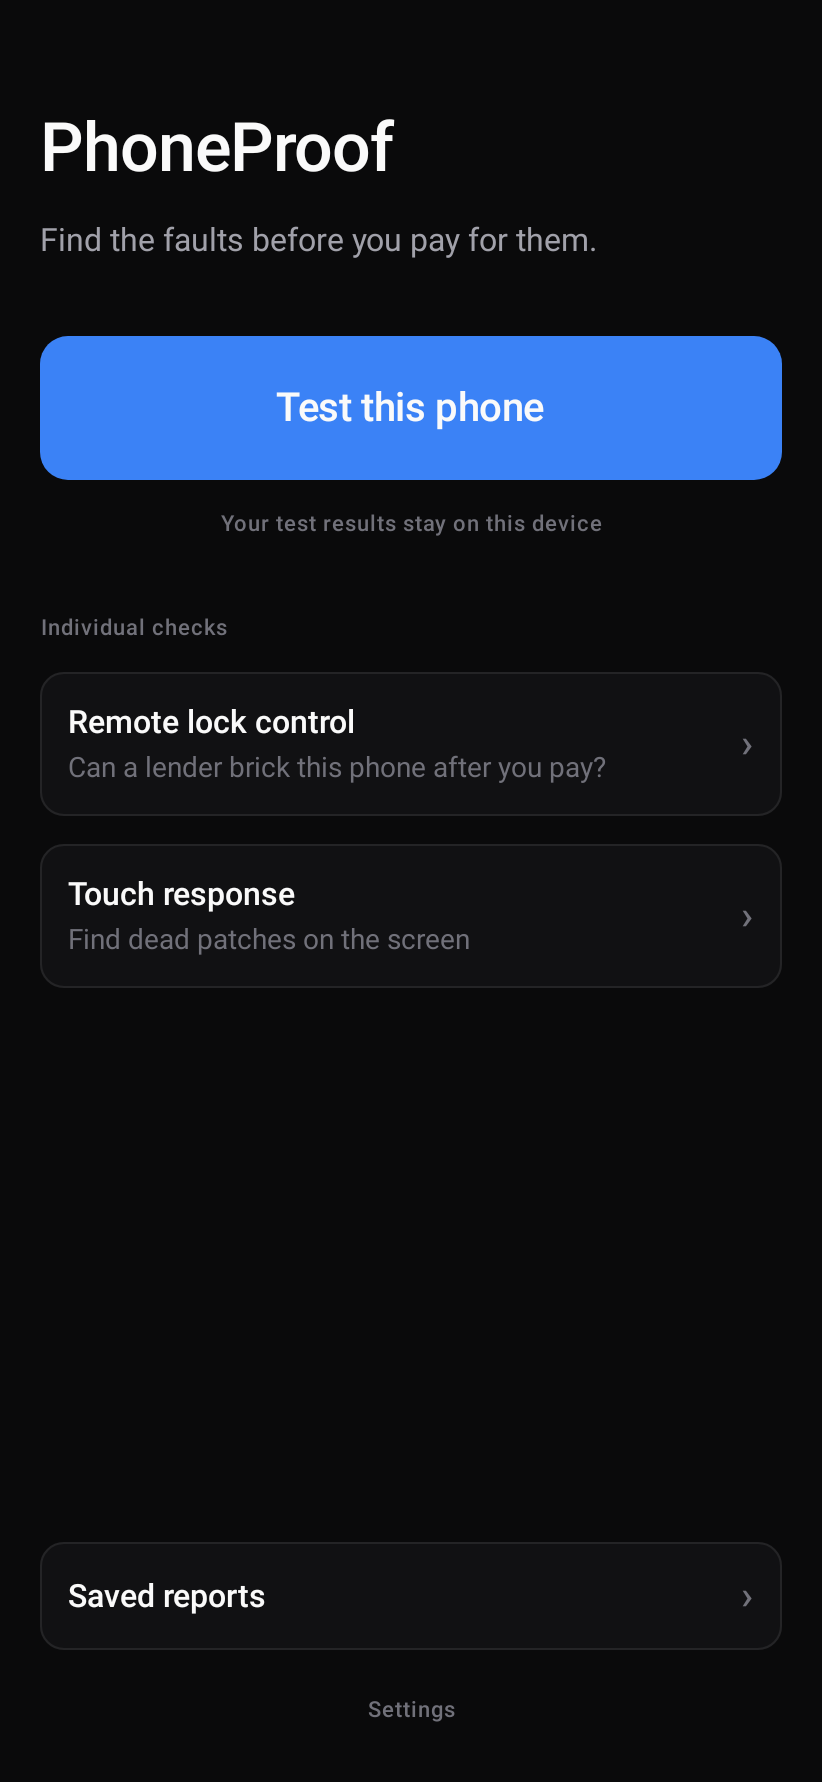
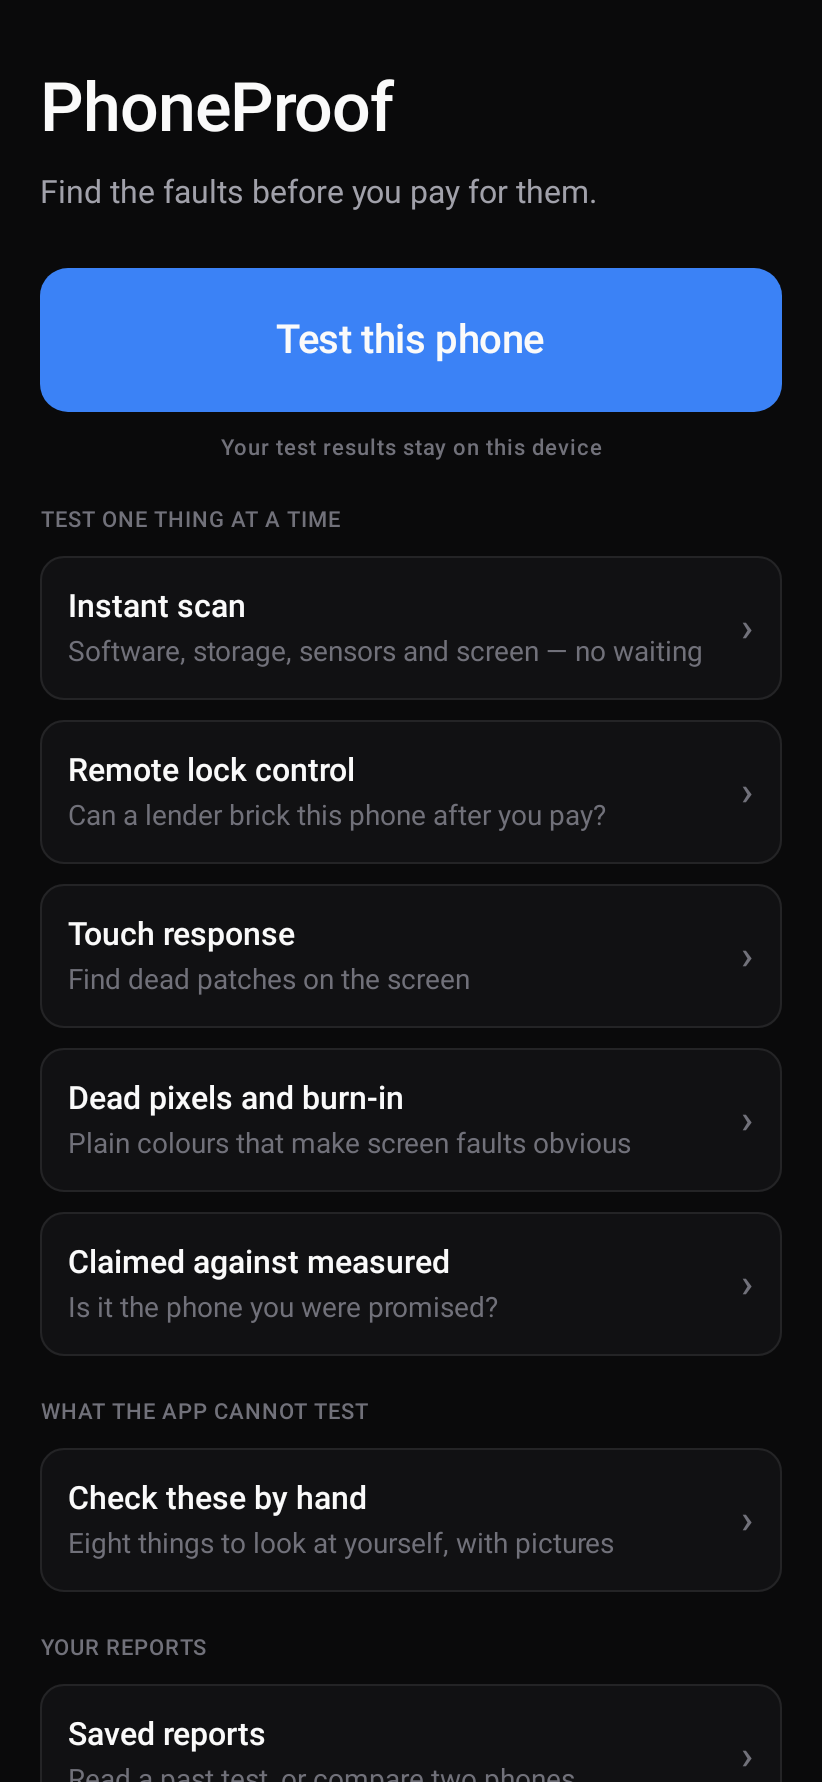
Let Home scroll, and give Settings a row of its own
Two reported problems with one cause. Home was a fixed Column with a
Spacer(weight(1f)) holding the last two rows at the bottom. That worked at
three checks and broke silently at six: the spacer collapsed to nothing,
"Saved reports" was clipped to a sliver with its label cut off, and
Settings was pushed off the screen entirely. So the unlabelled bar under
"Check these by hand" was Saved reports, which is why tapping it opened
saved reports, and the missing settings icon was a row that had left the
screen.

Nothing failed and no test caught it, because a fixed column just draws
what fits. The screenshot test was passing two checks where the app passes
six, so the render fitted comfortably while the real screen overflowed. It
now builds the real list, and a second render at a tall viewport captures
the whole column -- the phone-sized shot cannot show the bottom of a screen
that scrolls.

Home scrolls now, so anything added below extends the scroll instead of
evicting whatever was last.

Order and grouping, which was the other half of the report:

- Test one thing at a time: the five checks the phone can measure.
- What the app cannot test: the by-hand guide, under its own heading. It
  was sitting among the checks, which implied the app was measuring
  something.
- Your reports: saved reports, then settings.

Settings is a proper row with a gear icon and a subtitle rather than the
grey footnote text it was. material-icons-core is added for the icon,
[…]

diff --git a/feature/home/src/main/kotlin/com/phoneproof/feature/home/HomeScreen.kt b/feature/home/src/main/kotlin/com/phoneproof/feature/home/HomeScreen.kt
@@ -7,16 +7,22 @@ import androidx.compose.foundation.layout.Arrangement
 import androidx.compose.foundation.layout.Column
 import androidx.compose.foundation.layout.Row
 import androidx.compose.foundation.layout.Spacer
+import androidx.compose.foundation.layout.WindowInsets
 import androidx.compose.foundation.layout.fillMaxSize
 import androidx.compose.foundation.layout.fillMaxWidth
 import androidx.compose.foundation.layout.height
 import androidx.compose.foundation.layout.padding
 import androidx.compose.foundation.layout.safeDrawing
+import androidx.compose.foundation.layout.size
 import androidx.compose.foundation.layout.windowInsetsPadding
-import androidx.compose.foundation.layout.WindowInsets
+import androidx.compose.foundation.rememberScrollState
 import androidx.compose.foundation.shape.RoundedCornerShape
+import androidx.compose.foundation.verticalScroll
+import androidx.compose.material.icons.Icons
+import androidx.compose.material.icons.filled.Settings
 import androidx.compose.material3.Button
 import androidx.compose.material3.ButtonDefaults
+import androidx.compose.material3.Icon
 import androidx.compose.material3.MaterialTheme
 import androidx.compose.material3.Text
 import androidx.compose.runtime.Composable
@@ -29,18 +35,22 @@ import com.phoneproof.core.designsystem.theme.PhoneProofTheme
 /**
  * Home.
  *
- * Not a dashboard. One dominant action, because the person holding this phone has about three
- * minutes and an audience — a grid of equally-weighted tiles would make them stop and read.
+ * One dominant action, because the person holding this phone has about three minutes and an audience.
  *
- * The individual checks are listed below the primary action only because the full guided run does
- * not exist yet. As checks land they fold into the single run and disappear from this list.
+ * **This screen scrolls, and it has to.** It was a fixed [Column] with a `Spacer(weight(1f))` pushing
+ * the last two rows to the bottom, which worked with three checks and broke silently at six: the
+ * spacer collapsed to nothing, "Saved reports" was clipped to a sliver with its label cut off, and
+ * Settings was pushed off the screen entirely. Nothing failed and no test noticed, because a fixed
+ * column simply draws what fits. Anything added below now extends the scroll instead of evicting
+ * whatever was last.
  */
 @Composable
 fun HomeScreen(
     checks: List<HomeCheck>,
     onStartFullTest: () -> Unit,
-    onOpenSettings: () -> Unit,
+    onOpenGuide: () -> Unit,
     onOpenReports: () -> Unit,
+    onOpenSettings: () -> Unit,
     modifier: Modifier = Modifier,
 ) {
     Column(
@@ -48,13 +58,13 @@ fun HomeScreen(
             .fillMaxSize()
             .background(PhoneProofTheme.colors.background)
             // safeDrawing, not statusBars: it also covers the navigation bar, gesture areas and
-            // display cutouts, so this holds on a notch phone and a 3-button phone alike rather
-            // than being tuned to one handset.
+            // display cutouts, so this holds on a notch phone and a 3-button phone alike.
             .windowInsetsPadding(WindowInsets.safeDrawing)
-            .padding(20.dp),
-        verticalArrangement = Arrangement.spacedBy(14.dp),
+            .verticalScroll(rememberScrollState())
+            .padding(horizontal = 20.dp),
+        verticalArrangement = Arrangement.spacedBy(10.dp),
     ) {
-        Spacer(Modifier.height(20.dp))
+        Spacer(Modifier.height(24.dp))
 
         Text(
             text = "PhoneProof",
@@ -67,7 +77,7 @@ fun HomeScreen(
             color = PhoneProofTheme.colors.textSecondary,
         )
 
-        Spacer(Modifier.height(8.dp))
+        Spacer(Modifier.height(6.dp))
 
         Button(
             onClick = onStartFullTest,
@@ -94,80 +104,101 @@ fun HomeScreen(
             textAlign = TextAlign.Center,
         )
 
-        Spacer(Modifier.height(8.dp))
+        SectionLabel("Test one thing at a time")
+        checks.forEach { check ->
+            NavigationRow(
+                title = check.title,
+                subtitle = check.subtitle,
+                onClick = check.onClick,
+            )
+        }
 
-        Text(
-            text = "Individual checks",
-            style = MaterialTheme.typography.labelSmall,
-            color = PhoneProofTheme.colors.textTertiary,
+        // Its own heading, because it is the opposite of everything above it: advice for the buyer's
+        // hands rather than a measurement the phone can make. Grouping it with the checks implied the
+        // app was testing something.
+        SectionLabel("What the app cannot test")
+        NavigationRow(
+            title = "Check these by hand",
+            subtitle = "Eight things to look at yourself, with pictures",
+            onClick = onOpenGuide,
         )
 
-        checks.forEach { check ->
-            Row(
-                modifier = Modifier
-                    .fillMaxWidth()
-                    .background(PhoneProofTheme.colors.surface, RoundedCornerShape(12.dp))
-                    .border(1.dp, PhoneProofTheme.colors.border, RoundedCornerShape(12.dp))
-                    .clickable(onClick = check.onClick)
-                    .padding(14.dp),
-                horizontalArrangement = Arrangement.SpaceBetween,
-                verticalAlignment = Alignment.CenterVertically,
-            ) {
-                Column(verticalArrangement = Arrangement.spacedBy(2.dp)) {
-                    Text(
-                        text = check.title,
-                        style = MaterialTheme.typography.titleMedium,
-                        color = PhoneProofTheme.colors.textPrimary,
-                    )
-                    Text(
-                        text = check.subtitle,
-                        style = MaterialTheme.typography.bodyMedium,
-                        color = PhoneProofTheme.colors.textTertiary,
-                    )
-                }
+        SectionLabel("Your reports")
+        NavigationRow(
+            title = "Saved reports",
+            subtitle = "Read a past test, or compare two phones",
+            onClick = onOpenReports,
+        )
+        NavigationRow(
+            title = "Settings",
+            subtitle = "Theme, premium, privacy and diagnostics",
+            onClick = onOpenSettings,
+            leading = {
+                // A real icon rather than the plain grey text this used to be. It sat at the very
+                // bottom looking like a footnote, and on a full screen it was not there at all.
+                Icon(
+                    imageVector = Icons.Filled.Settings,
+                    contentDescription = null,
+                    tint = PhoneProofTheme.colors.textSecondary,
+                    modifier = Modifier.size(20.dp),
+                )
+            },
+        )
+
+        Spacer(Modifier.height(28.dp))
+    }
+}
+
+@Composable
+private fun SectionLabel(text: String) {
+    Text(
+        text = text.uppercase(),
+        style = MaterialTheme.typography.labelSmall,
+        color = PhoneProofTheme.colors.textTertiary,
+        modifier = Modifier.padding(top = 10.dp),
+    )
+}
+
+@Composable
+private fun NavigationRow(
+    title: String,
+    subtitle: String,
+    onClick: () -> Unit,
+    leading: (@Composable () -> Unit)? = null,
+) {
+    Row(
+        modifier = Modifier
+            .fillMaxWidth()
+            .background(PhoneProofTheme.colors.surface, RoundedCornerShape(12.dp))
+            .border(1.dp, PhoneProofTheme.colors.border, RoundedCornerShape(12.dp))
+            .clickable(onClick = onClick)
+            .padding(14.dp),
+        horizontalArrangement = Arrangement.SpaceBetween,
+        verticalAlignment = Alignment.CenterVertically,
+    ) {
+        Row(
+            modifier = Modifier.padding(end = 8.dp),
+            verticalAlignment = Alignment.CenterVertically,
+            horizontalArrangement = Arrangement.spacedBy(12.dp),
+        ) {
+            leading?.invoke()
+            Column(verticalArrangement = Arrangement.spacedBy(2.dp)) {
                 Text(
-                    text = "›",
-                    style = MaterialTheme.typography.titleLarge,
+                    text = title,
+                    style = MaterialTheme.typography.titleMedium,
+                    color = PhoneProofTheme.colors.textPrimary,
+                )
+                Text(
+                    text = subtitle,
+                    style = MaterialTheme.typography.bodyMedium,
                     color = PhoneProofTheme.colors.textTertiary,
                 )
             }
         }
-
-        Spacer(Modifier.weight(1f))
-
-        // Given its own row above Settings rather than buried inside it. A report the buyer cannot
-        // find again is the same as no report, and this is the screen they return to.
-        Row(
-            modifier = Modifier
-                .fillMaxWidth()
-                .background(PhoneProofTheme.colors.surface, RoundedCornerShape(12.dp))
-                .border(1.dp, PhoneProofTheme.colors.border, RoundedCornerShape(12.dp))
-                .clickable(onClick = onOpenReports)
-                .padding(14.dp),
-            horizontalArrangement = Arrangement.SpaceBetween,
-            verticalAlignment = Alignment.CenterVertically,
-        ) {
-            Text(
-                text = "Saved reports",
-                style = MaterialTheme.typography.titleMedium,
-                color = PhoneProofTheme.colors.textPrimary,
-            )
-            Text(
-                text = "›",
-                style = MaterialTheme.typography.titleLarge,
-                color = PhoneProofTheme.colors.textTertiary,
-            )
-        }
-
         Text(
-            text = "Settings",
-            style = MaterialTheme.typography.labelSmall,
+            text = "›",
+            style = MaterialTheme.typography.titleLarge,
             color = PhoneProofTheme.colors.textTertiary,
-            modifier = Modifier
-                .fillMaxWidth()
-                .clickable(onClick = onOpenSettings)
-                .padding(vertical = 8.dp),
-            textAlign = TextAlign.Center,
         )
     }
 }

diff --git a/feature/home/src/test/kotlin/com/phoneproof/feature/home/HomeScreenshotTest.kt b/feature/home/src/test/kotlin/com/phoneproof/feature/home/HomeScreenshotTest.kt
@@ -25,30 +25,48 @@ class HomeScreenshotTest {
     private val outputDir: String =
         System.getProperty("phoneproof.screenshotDir") ?: "build/screenshots"
 
-    @Test
-    fun home() {
+    /**
+     * Every check the app actually offers, not a token two.
+     *
+     * The old test passed two, which is why nobody noticed Home had outgrown its fixed layout: with
+     * two rows everything fitted, while the real app pushed Settings off the bottom of the screen.
+     * A screenshot test that renders less than the real screen cannot catch a screen that overflows.
+     */
+    private fun realChecks(): List<HomeCheck> = listOf(
+        HomeCheck("Instant scan", "Software, storage, sensors and screen — no waiting") {},
+        HomeCheck("Remote lock control", "Can a lender brick this phone after you pay?") {},
+        HomeCheck("Touch response", "Find dead patches on the screen") {},
+        HomeCheck("Dead pixels and burn-in", "Plain colours that make screen faults obvious") {},
+        HomeCheck("Claimed against measured", "Is it the phone you were promised?") {},
+    )
+
+    private fun render(name: String) {
         composeRule.setContent {
             PhoneProofTheme(themeMode = ThemeMode.DARK) {
                 HomeScreen(
-                    checks = listOf(
-                        HomeCheck(
-                            title = "Remote lock control",
-                            subtitle = "Can a lender brick this phone after you pay?",
-                            onClick = {},
-                        ),
-                        HomeCheck(
-                            title = "Touch response",
-                            subtitle = "Find dead patches on the screen",
-                            onClick = {},
-                        ),
-                    ),
+                    checks = realChecks(),
                     onStartFullTest = {},
-                    onOpenSettings = {},
+                    onOpenGuide = {},
                     onOpenReports = {},
+                    onOpenSettings = {},
                     modifier = Modifier.fillMaxSize(),
                 )
             }
         }
-        composeRule.onRoot().captureRoboImage("$outputDir/home.png")
+        composeRule.onRoot().captureRoboImage("$outputDir/$name.png")
+    }
+
+    @Test
+    fun home() {
+        // A phone-sized viewport, so this shows what a buyer sees before scrolling.
+        render("home")
+    }
+
+    @Test
+    @Config(qualifiers = "w411dp-h1800dp-xhdpi")
+    fun home_full_column() {
+        // The whole scrolling column in one image. This is the render that proves Settings and Saved
+        // reports exist at all, which the phone-sized shot cannot show now that Home scrolls.
+        render("home-2-full")
     }
 }

diff --git a/app/src/main/kotlin/com/phoneproof/app/PhoneProofNavHost.kt b/app/src/main/kotlin/com/phoneproof/app/PhoneProofNavHost.kt
@@ -80,17 +80,15 @@ fun PhoneProofNavHost(
                         subtitle = "Is it the phone you were promised?",
                         onClick = { navController.navigate(Routes.CLAIMS) },
                     ),
-                    HomeCheck(
-                        title = "Check these by hand",
-                        subtitle = "The eight things no app can test for you",
-                        onClick = { navController.navigate(Routes.GUIDE) },
-                    ),
                 ),
                 // The instant scan is the closest thing to the full guided run that exists, and
                 // it already includes the remote-lock check, so the primary action opens it.
                 onStartFullTest = { navController.navigate(Routes.SCAN) },
-                onOpenSettings = { navController.navigate(Routes.SETTINGS) },
+                // The guide is no longer one of the checks: it has its own heading on Home, because
+                // it is advice for the buyer's hands rather than something the phone measures.
+                onOpenGuide = { navController.navigate(Routes.GUIDE) },
                 onOpenReports = { navController.navigate(Routes.REPORTS) },
+                onOpenSettings = { navController.navigate(Routes.SETTINGS) },
                 modifier = Modifier.fillMaxSize(),
             )
         }
